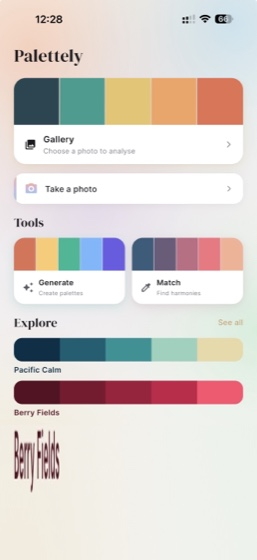
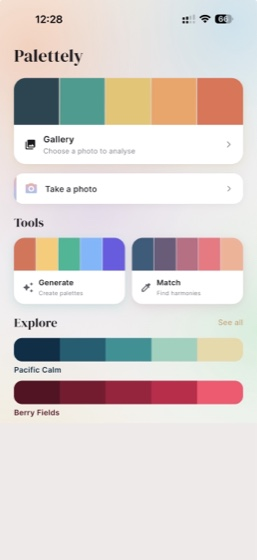
Fix home mockup padding: flat fill (remove smeared Berry Fields)

Changed region(s): [[0.0311, 0.7589, 0.249, 0.8804]]

diff --git a/main.js b/main.js
@@ -444,7 +444,7 @@
       typeNote: 'A deliberately neutral type system — system sans, no personality — so it never colours the colours.',
       shots: [
         'assets/work/palettely/splash.jpg',
-        'assets/work/palettely/home.jpg?v=2',
+        'assets/work/palettely/home.jpg?v=3',
         'assets/work/palettely/extract.jpg',
         'assets/work/palettely/export.jpg',
         'assets/work/palettely/style.jpg',